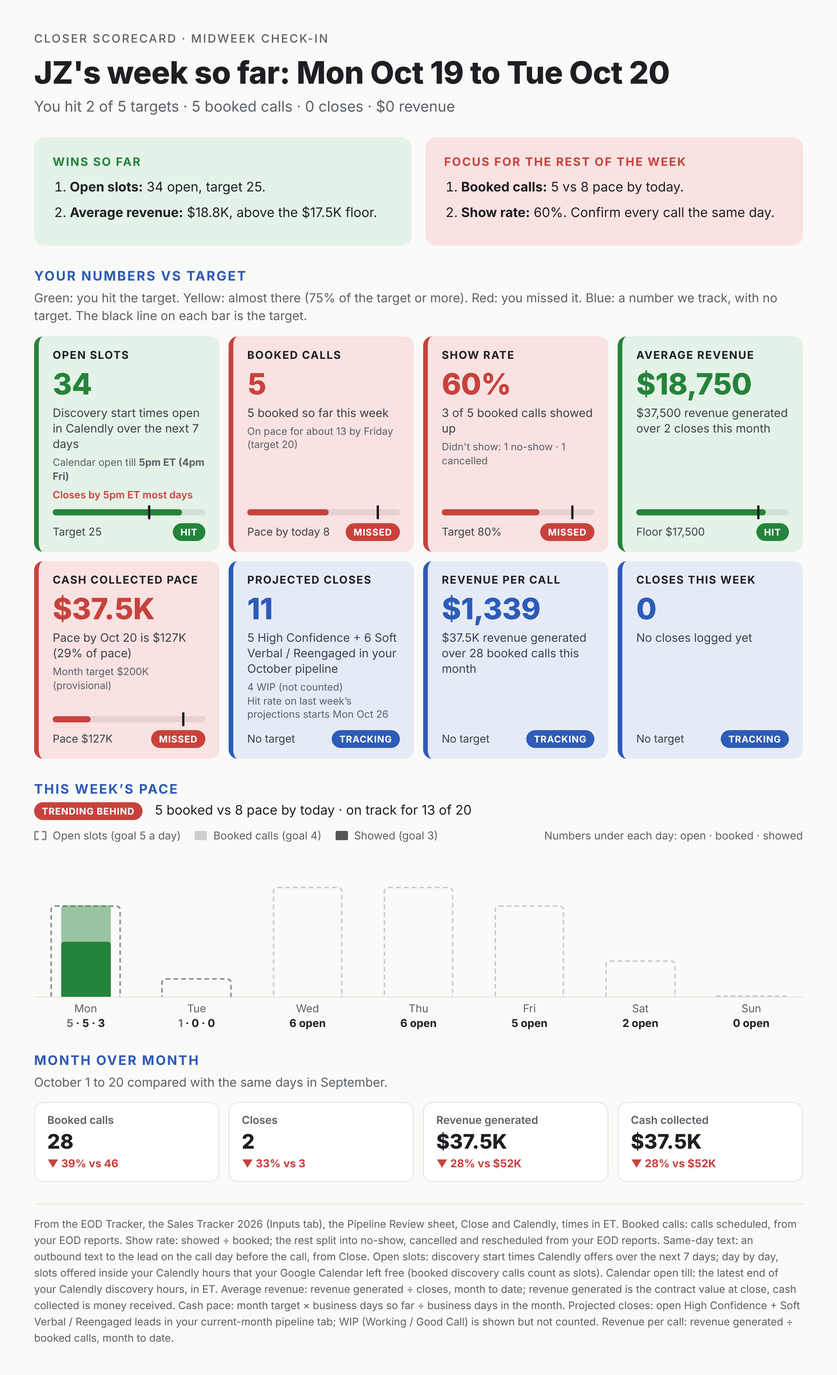
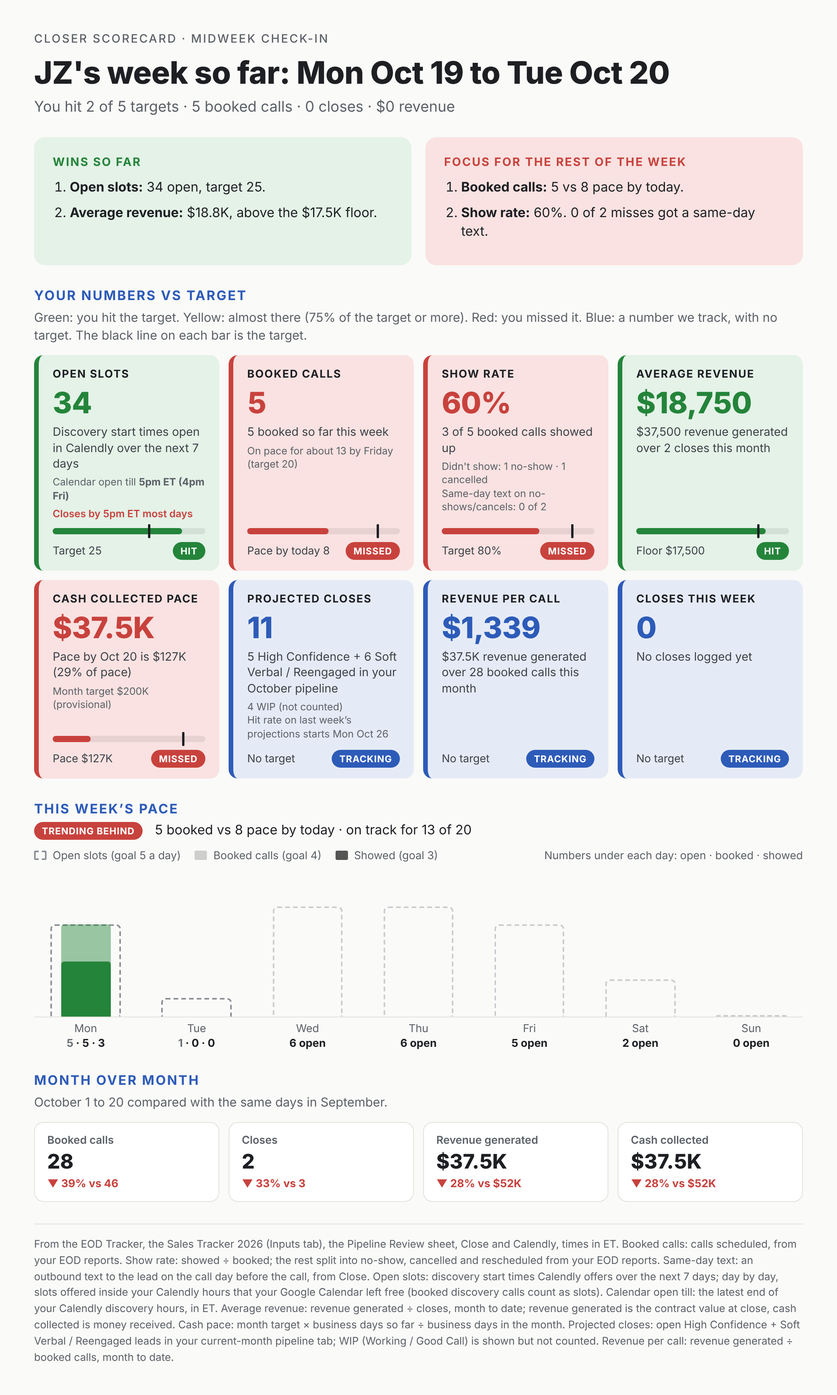
Scorecard: same-day confirmation texts on no-shows and cancels
Checks Close for an outbound text on the call day before the call for
every EOD no-show and cancel, split by who sent it (setter, closer,
other). Shown on the show-rate tile and the leadership table; the Focus
line states the count instead of telling the closer to confirm.

Claude-Session: https://claude.ai/code/session_011pbn4nCNJuuvTdiMbwfsux

diff --git a/out/monday-leadership.html b/out/monday-leadership.html
@@ -83,7 +83,7 @@ tr.total td{background:#f1efea;font-weight:800}
 <tbody><tr><td>Owen</td>
 <td class="hit">36<small>till 6pm ET</small></td>
 <td class="hit">23<small>of 20</small></td>
-<td class="almost">78%<small>18/23 · 3 NS · 1 C · 1 R</small></td>
+<td class="almost">78%<small>18/23 · 3 NS · 1 C · 1 R · texted 1/4</small></td>
 <td class="track">1<small>$20K</small></td>
 <td class="track">10<small>2 HC · 8 SV · 3 W</small></td>
 <td class="almost">$97K<small>89% of pace</small></td>
@@ -92,7 +92,7 @@ tr.total td{background:#f1efea;font-weight:800}
 <td class="track">▼ 53%<small>$97K vs $206K</small></td></tr><tr><td>Adam</td>
 <td class="hit">28<small>till 9pm ET</small></td>
 <td class="missed">6<small>of 20</small></td>
-<td class="almost">67%<small>4/6 · 2 NS · 0 C · 0 R</small></td>
+<td class="almost">67%<small>4/6 · 2 NS · 0 C · 0 R · texted 2/2</small></td>
 <td class="track">1<small>$18K</small></td>
 <td class="track">7<small>5 HC · 2 SV · 6 W</small></td>
 <td class="missed">$68K<small>62% of pace</small></td>
@@ -101,7 +101,7 @@ tr.total td{background:#f1efea;font-weight:800}
 <td class="track">▼ 55%<small>$68K vs $151K</small></td></tr><tr><td>JZ</td>
 <td class="hit">27<small>till 5pm ET</small></td>
 <td class="missed">5<small>of 20</small></td>
-<td class="missed">60%<small>3/5 · 1 NS · 1 C · 0 R</small></td>
+<td class="missed">60%<small>3/5 · 1 NS · 1 C · 0 R · texted 1/2</small></td>
 <td class="track">2<small>$37.5K</small></td>
 <td class="track">11<small>5 HC · 6 SV · 4 W</small></td>
 <td class="missed">$37.5K<small>34% of pace</small></td>
@@ -110,7 +110,7 @@ tr.total td{background:#f1efea;font-weight:800}
 <td class="track">▼ 28%<small>$37.5K vs $52K</small></td></tr><tr><td>VeJohn</td>
 <td class="missed">12<small>till 9pm ET</small></td>
 <td class="almost">17<small>of 20</small></td>
-<td class="almost">76%<small>13/17 · 2 NS · 2 C · 0 R</small></td>
+<td class="almost">76%<small>13/17 · 2 NS · 2 C · 0 R · texted 0/4</small></td>
 <td class="track">2<small>$35K</small></td>
 <td class="track">4<small>3 HC · 1 SV · 1 W</small></td>
 <td class="missed">$81K<small>74% of pace</small></td>
@@ -128,7 +128,7 @@ tr.total td{background:#f1efea;font-weight:800}
 <td class="track">▼ 17%<small>$15K vs $18K</small></td></tr><tr><td>Nick</td>
 <td class="missed">16<small>till 5pm ET</small></td>
 <td class="missed">13<small>of 20</small></td>
-<td class="missed">46%<small>6/13 · 7 NS · 0 C · 0 R</small></td>
+<td class="missed">46%<small>6/13 · 7 NS · 0 C · 0 R · texted 2/7</small></td>
 <td class="track">2<small>$34K</small></td>
 <td class="track">0<small>0 HC · 0 SV · 0 W · 32 untagged</small></td>
 <td class="missed">$69K<small>63% of pace</small></td>
@@ -137,7 +137,7 @@ tr.total td{background:#f1efea;font-weight:800}
 <td class="track">▼ 46%<small>$69K vs $129K</small></td></tr><tr><td>Omar</td>
 <td class="hit">27<small>till 4pm ET</small></td>
 <td class="hit">25<small>of 20</small></td>
-<td class="missed">56%<small>14/25 · 8 NS · 2 C · 1 R</small></td>
+<td class="missed">56%<small>14/25 · 8 NS · 2 C · 1 R · texted 1/10</small></td>
 <td class="track">0<small>$0</small></td>
 <td class="track">7<small>2 HC · 5 SV · 4 W</small></td>
 <td class="missed">$15K<small>14% of pace</small></td>
@@ -146,7 +146,7 @@ tr.total td{background:#f1efea;font-weight:800}
 <td class="track">▼ 86%<small>$15K vs $106K</small></td></tr><tr><td>Harry</td>
 <td class="hit">34<small>till 6pm ET</small></td>
 <td class="missed">14<small>of 20</small></td>
-<td class="almost">71%<small>10/14 · 2 NS · 2 C · 0 R</small></td>
+<td class="almost">71%<small>10/14 · 2 NS · 2 C · 0 R · texted 1/4</small></td>
 <td class="track">0<small>$0</small></td>
 <td class="track">6<small>5 HC · 1 SV · 10 W · 3 untagged</small></td>
 <td class="missed">$39K<small>36% of pace</small></td>
@@ -155,7 +155,7 @@ tr.total td{background:#f1efea;font-weight:800}
 <td class="track">▼ 45%<small>$39K vs $70.5K</small></td></tr><tr><td>Solomon</td>
 <td class="hit">35<small>till 10pm ET</small></td>
 <td class="missed">12<small>of 20</small></td>
-<td class="almost">67%<small>8/12 · 4 NS · 0 C · 0 R</small></td>
+<td class="almost">67%<small>8/12 · 4 NS · 0 C · 0 R · texted 2/4</small></td>
 <td class="track">3<small>$56K</small></td>
 <td class="track">0<small>0 HC · 0 SV · 0 W · 6 untagged</small></td>
 <td class="missed">$56K<small>51% of pace</small></td>
@@ -164,7 +164,7 @@ tr.total td{background:#f1efea;font-weight:800}
 <td class="track">▼ 37%<small>$56K vs $88.5K</small></td></tr><tr><td>Daniel</td>
 <td class="hit">37<small>till 6pm ET</small></td>
 <td class="missed">8<small>of 20</small></td>
-<td class="almost">63%<small>5/8 · 2 NS · 0 C · 1 R</small></td>
+<td class="almost">63%<small>5/8 · 2 NS · 0 C · 1 R · texted 0/2</small></td>
 <td class="track">0<small>$0</small></td>
 <td class="track">0<small>0 HC · 0 SV · 0 W · 11 untagged</small></td>
 <td class="missed">$0<small>0% of pace</small></td>
@@ -173,7 +173,7 @@ tr.total td{background:#f1efea;font-weight:800}
 <td class="track">▼ 100%<small>$0 vs $32.5K</small></td></tr><tr><td>Kevin</td>
 <td class="almost">21<small>till 8pm ET</small></td>
 <td class="almost">15<small>of 20</small></td>
-<td class="almost">67%<small>10/15 · 3 NS · 2 C · 0 R</small></td>
+<td class="almost">67%<small>10/15 · 3 NS · 2 C · 0 R · texted 2/5</small></td>
 <td class="track">2<small>$36K</small></td>
 <td class="track">0<small>0 HC · 0 SV · 0 W · 8 untagged</small></td>
 <td class="missed">$42K<small>39% of pace</small></td>

diff --git a/out/monday-Omar.html b/out/monday-Omar.html
@@ -80,7 +80,7 @@ tr.total td{background:#f1efea;font-weight:800}
 <div class="lede">You hit 2 of 5 targets · 25 booked calls · 0 closes · $0 revenue</div>
 <div class="wf">
   <div class="box wins"><h3>WINS LAST WEEK</h3><ol><li><b>Open slots:</b> 27 open, target 25.</li><li><b>Booked calls:</b> 25, target 20.</li></ol></div>
-  <div class="box fixes"><h3>FOCUS THIS WEEK</h3><ol><li><b>Show rate:</b> 56%. Confirm every call the same day.</li><li><b>Average revenue:</b> $15K, below the $17.5K floor.</li></ol></div>
+  <div class="box fixes"><h3>FOCUS THIS WEEK</h3><ol><li><b>Show rate:</b> 56%. 1 of 10 misses got a same-day text.</li><li><b>Average revenue:</b> $15K, below the $17.5K floor.</li></ol></div>
 </div>
 <div class="section"><h2>YOUR NUMBERS VS TARGET</h2>
 <p class="key">Green: you hit the target. Yellow: almost there (75% of the target or more). Red: you missed it. Blue: a number we track, with no target. The black line on each bar is the target.</p>
@@ -94,7 +94,7 @@ tr.total td{background:#f1efea;font-weight:800}
   <div class="foot"><div class="bar"><i style="width:85%"></i><b style="left:68%"></b></div><div class="row"><span>Target 20</span><span class="chip">HIT</span></div></div>
 </div><div class="tile missed">
   <div class="l">Show rate</div><div class="v">56%</div>
-  <div class="s">14 of 25 booked calls showed up</div><div class="small">Didn't show: 8 no-show · 2 cancelled · 1 rescheduled</div>
+  <div class="s">14 of 25 booked calls showed up</div><div class="small">Didn't show: 8 no-show · 2 cancelled · 1 rescheduled<br>Same-day text on no-shows/cancels: 1 of 10 (1 you)</div>
   <div class="foot"><div class="bar"><i style="width:59.5%"></i><b style="left:85%"></b></div><div class="row"><span>Target 80%</span><span class="chip">MISSED</span></div></div>
 </div><div class="tile missed">
   <div class="l">Average revenue</div><div class="v">$15,000</div>

diff --git a/out/wednesday-Owen.html b/out/wednesday-Owen.html
@@ -80,7 +80,7 @@ tr.total td{background:#f1efea;font-weight:800}
 <div class="lede">You hit 2 of 5 targets, 1 almost · 4 booked calls · 0 closes · $0 revenue</div>
 <div class="wf">
   <div class="box wins"><h3>WINS SO FAR</h3><ol><li><b>Open slots:</b> 32 open, target 25.</li><li><b>Average revenue:</b> $19.4K, above the $17.5K floor.</li></ol></div>
-  <div class="box fixes"><h3>FOCUS FOR THE REST OF THE WEEK</h3><ol><li><b>Booked calls:</b> 4 vs 8 pace by today.</li><li><b>Show rate:</b> 50%. Confirm every call the same day.</li></ol></div>
+  <div class="box fixes"><h3>FOCUS FOR THE REST OF THE WEEK</h3><ol><li><b>Booked calls:</b> 4 vs 8 pace by today.</li><li><b>Show rate:</b> 50%. 0 of 1 misses got a same-day text.</li></ol></div>
 </div>
 <div class="section"><h2>YOUR NUMBERS VS TARGET</h2>
 <p class="key">Green: you hit the target. Yellow: almost there (75% of the target or more). Red: you missed it. Blue: a number we track, with no target. The black line on each bar is the target.</p>
@@ -94,7 +94,7 @@ tr.total td{background:#f1efea;font-weight:800}
   <div class="foot"><div class="bar"><i style="width:42.5%"></i><b style="left:85%"></b></div><div class="row"><span>Pace by today 8</span><span class="chip">MISSED</span></div></div>
 </div><div class="tile missed">
   <div class="l">Show rate</div><div class="v">50%</div>
-  <div class="s">2 of 4 booked calls showed up</div><div class="small">Didn't show: 1 no-show · 1 rescheduled</div>
+  <div class="s">2 of 4 booked calls showed up</div><div class="small">Didn't show: 1 no-show · 1 rescheduled<br>Same-day text on no-shows/cancels: 0 of 1</div>
   <div class="foot"><div class="bar"><i style="width:53.125%"></i><b style="left:85%"></b></div><div class="row"><span>Target 80%</span><span class="chip">MISSED</span></div></div>
 </div><div class="tile hit">
   <div class="l">Average revenue</div><div class="v">$19,400</div>

diff --git a/out/wednesday-JZ.html b/out/wednesday-JZ.html
@@ -80,7 +80,7 @@ tr.total td{background:#f1efea;font-weight:800}
 <div class="lede">You hit 2 of 5 targets · 5 booked calls · 0 closes · $0 revenue</div>
 <div class="wf">
   <div class="box wins"><h3>WINS SO FAR</h3><ol><li><b>Open slots:</b> 34 open, target 25.</li><li><b>Average revenue:</b> $18.8K, above the $17.5K floor.</li></ol></div>
-  <div class="box fixes"><h3>FOCUS FOR THE REST OF THE WEEK</h3><ol><li><b>Booked calls:</b> 5 vs 8 pace by today.</li><li><b>Show rate:</b> 60%. Confirm every call the same day.</li></ol></div>
+  <div class="box fixes"><h3>FOCUS FOR THE REST OF THE WEEK</h3><ol><li><b>Booked calls:</b> 5 vs 8 pace by today.</li><li><b>Show rate:</b> 60%. 0 of 2 misses got a same-day text.</li></ol></div>
 </div>
 <div class="section"><h2>YOUR NUMBERS VS TARGET</h2>
 <p class="key">Green: you hit the target. Yellow: almost there (75% of the target or more). Red: you missed it. Blue: a number we track, with no target. The black line on each bar is the target.</p>
@@ -94,7 +94,7 @@ tr.total td{background:#f1efea;font-weight:800}
   <div class="foot"><div class="bar"><i style="width:53.125%"></i><b style="left:85%"></b></div><div class="row"><span>Pace by today 8</span><span class="chip">MISSED</span></div></div>
 </div><div class="tile missed">
   <div class="l">Show rate</div><div class="v">60%</div>
-  <div class="s">3 of 5 booked calls showed up</div><div class="small">Didn't show: 1 no-show · 1 cancelled</div>
+  <div class="s">3 of 5 booked calls showed up</div><div class="small">Didn't show: 1 no-show · 1 cancelled<br>Same-day text on no-shows/cancels: 0 of 2</div>
   <div class="foot"><div class="bar"><i style="width:63.74999999999999%"></i><b style="left:85%"></b></div><div class="row"><span>Target 80%</span><span class="chip">MISSED</span></div></div>
 </div><div class="tile hit">
   <div class="l">Average revenue</div><div class="v">$18,750</div>

diff --git a/out/monday-Owen.html b/out/monday-Owen.html
@@ -80,7 +80,7 @@ tr.total td{background:#f1efea;font-weight:800}
 <div class="lede">You hit 3 of 5 targets, 2 almost · 23 booked calls · 1 close · $20K revenue</div>
 <div class="wf">
   <div class="box wins"><h3>WINS LAST WEEK</h3><ol><li><b>Open slots:</b> 36 open, target 25.</li><li><b>Booked calls:</b> 23, target 20.</li></ol></div>
-  <div class="box fixes"><h3>FOCUS THIS WEEK</h3><ol><li><b>Show rate:</b> 78%. Confirm every call the same day.</li><li><b>Cash:</b> $97K vs $109K pace.</li></ol></div>
+  <div class="box fixes"><h3>FOCUS THIS WEEK</h3><ol><li><b>Show rate:</b> 78%. 1 of 4 misses got a same-day text.</li><li><b>Cash:</b> $97K vs $109K pace.</li></ol></div>
 </div>
 <div class="section"><h2>YOUR NUMBERS VS TARGET</h2>
 <p class="key">Green: you hit the target. Yellow: almost there (75% of the target or more). Red: you missed it. Blue: a number we track, with no target. The black line on each bar is the target.</p>
@@ -94,7 +94,7 @@ tr.total td{background:#f1efea;font-weight:800}
   <div class="foot"><div class="bar"><i style="width:85%"></i><b style="left:73.91304347826086%"></b></div><div class="row"><span>Target 20</span><span class="chip">HIT</span></div></div>
 </div><div class="tile almost">
   <div class="l">Show rate</div><div class="v">78%</div>
-  <div class="s">18 of 23 booked calls showed up</div><div class="small">Didn't show: 3 no-show · 1 cancelled · 1 rescheduled</div>
+  <div class="s">18 of 23 booked calls showed up</div><div class="small">Didn't show: 3 no-show · 1 cancelled · 1 rescheduled<br>Same-day text on no-shows/cancels: 1 of 4 (1 setter)</div>
   <div class="foot"><div class="bar"><i style="width:83.15217391304347%"></i><b style="left:85%"></b></div><div class="row"><span>Target 80%</span><span class="chip">ALMOST</span></div></div>
 </div><div class="tile hit">
   <div class="l">Average revenue</div><div class="v">$19,400</div>

diff --git a/out/wednesday-Solomon.html b/out/wednesday-Solomon.html
@@ -80,7 +80,7 @@ tr.total td{background:#f1efea;font-weight:800}
 <div class="lede">You hit 2 of 5 targets, 1 almost · 4 booked calls · 0 closes · $0 revenue</div>
 <div class="wf">
   <div class="box wins"><h3>WINS SO FAR</h3><ol><li><b>Open slots:</b> 34 open, target 25.</li><li><b>Average revenue:</b> $18.7K, above the $17.5K floor.</li></ol></div>
-  <div class="box fixes"><h3>FOCUS FOR THE REST OF THE WEEK</h3><ol><li><b>Booked calls:</b> 4 vs 8 pace by today.</li><li><b>Show rate:</b> 75%. Confirm every call the same day.</li></ol></div>
+  <div class="box fixes"><h3>FOCUS FOR THE REST OF THE WEEK</h3><ol><li><b>Booked calls:</b> 4 vs 8 pace by today.</li><li><b>Show rate:</b> 75%. 1 of 1 misses got a same-day text.</li></ol></div>
 </div>
 <div class="section"><h2>YOUR NUMBERS VS TARGET</h2>
 <p class="key">Green: you hit the target. Yellow: almost there (75% of the target or more). Red: you missed it. Blue: a number we track, with no target. The black line on each bar is the target.</p>
@@ -94,7 +94,7 @@ tr.total td{background:#f1efea;font-weight:800}
   <div class="foot"><div class="bar"><i style="width:42.5%"></i><b style="left:85%"></b></div><div class="row"><span>Pace by today 8</span><span class="chip">MISSED</span></div></div>
 </div><div class="tile almost">
   <div class="l">Show rate</div><div class="v">75%</div>
-  <div class="s">3 of 4 booked calls showed up</div><div class="small">Didn't show: 1 no-show</div>
+  <div class="s">3 of 4 booked calls showed up</div><div class="small">Didn't show: 1 no-show<br>Same-day text on no-shows/cancels: 1 of 1 (1 you)</div>
   <div class="foot"><div class="bar"><i style="width:79.68749999999999%"></i><b style="left:85%"></b></div><div class="row"><span>Target 80%</span><span class="chip">ALMOST</span></div></div>
 </div><div class="tile hit">
   <div class="l">Average revenue</div><div class="v">$18,667</div>

diff --git a/out/wednesday-Kevin.html b/out/wednesday-Kevin.html
@@ -80,7 +80,7 @@ tr.total td{background:#f1efea;font-weight:800}
 <div class="lede">You hit 2 of 5 targets · 5 booked calls · 0 closes · $0 revenue</div>
 <div class="wf">
   <div class="box wins"><h3>WINS SO FAR</h3><ol><li><b>Open slots:</b> 31 open, target 25.</li><li><b>Average revenue:</b> $18K, above the $17.5K floor.</li></ol></div>
-  <div class="box fixes"><h3>FOCUS FOR THE REST OF THE WEEK</h3><ol><li><b>Booked calls:</b> 5 vs 8 pace by today.</li><li><b>Show rate:</b> 40%. Confirm every call the same day.</li></ol></div>
+  <div class="box fixes"><h3>FOCUS FOR THE REST OF THE WEEK</h3><ol><li><b>Booked calls:</b> 5 vs 8 pace by today.</li><li><b>Show rate:</b> 40%. 0 of 3 misses got a same-day text.</li></ol></div>
 </div>
 <div class="section"><h2>YOUR NUMBERS VS TARGET</h2>
 <p class="key">Green: you hit the target. Yellow: almost there (75% of the target or more). Red: you missed it. Blue: a number we track, with no target. The black line on each bar is the target.</p>
@@ -94,7 +94,7 @@ tr.total td{background:#f1efea;font-weight:800}
   <div class="foot"><div class="bar"><i style="width:53.125%"></i><b style="left:85%"></b></div><div class="row"><span>Pace by today 8</span><span class="chip">MISSED</span></div></div>
 </div><div class="tile missed">
   <div class="l">Show rate</div><div class="v">40%</div>
-  <div class="s">2 of 5 booked calls showed up</div><div class="small">Didn't show: 2 no-show · 1 cancelled</div>
+  <div class="s">2 of 5 booked calls showed up</div><div class="small">Didn't show: 2 no-show · 1 cancelled<br>Same-day text on no-shows/cancels: 0 of 3</div>
   <div class="foot"><div class="bar"><i style="width:42.5%"></i><b style="left:85%"></b></div><div class="row"><span>Target 80%</span><span class="chip">MISSED</span></div></div>
 </div><div class="tile hit">
   <div class="l">Average revenue</div><div class="v">$18,000</div>

diff --git a/out/monday-Harry.html b/out/monday-Harry.html
@@ -80,7 +80,7 @@ tr.total td{background:#f1efea;font-weight:800}
 <div class="lede">You hit 2 of 5 targets, 1 almost · 14 booked calls · 0 closes · $0 revenue</div>
 <div class="wf">
   <div class="box wins"><h3>WINS LAST WEEK</h3><ol><li><b>Open slots:</b> 34 open, target 25.</li><li><b>Average revenue:</b> $19.5K, above the $17.5K floor.</li></ol></div>
-  <div class="box fixes"><h3>FOCUS THIS WEEK</h3><ol><li><b>Booked calls:</b> 14 of 20.</li><li><b>Show rate:</b> 71%. Confirm every call the same day.</li></ol></div>
+  <div class="box fixes"><h3>FOCUS THIS WEEK</h3><ol><li><b>Booked calls:</b> 14 of 20.</li><li><b>Show rate:</b> 71%. 1 of 4 misses got a same-day text.</li></ol></div>
 </div>
 <div class="section"><h2>YOUR NUMBERS VS TARGET</h2>
 <p class="key">Green: you hit the target. Yellow: almost there (75% of the target or more). Red: you missed it. Blue: a number we track, with no target. The black line on each bar is the target.</p>
@@ -94,7 +94,7 @@ tr.total td{background:#f1efea;font-weight:800}
   <div class="foot"><div class="bar"><i style="width:59.5%"></i><b style="left:85%"></b></div><div class="row"><span>Target 20</span><span class="chip">MISSED</span></div></div>
 </div><div class="tile almost">
   <div class="l">Show rate</div><div class="v">71%</div>
-  <div class="s">10 of 14 booked calls showed up</div><div class="small">Didn't show: 2 no-show · 2 cancelled</div>
+  <div class="s">10 of 14 booked calls showed up</div><div class="small">Didn't show: 2 no-show · 2 cancelled<br>Same-day text on no-shows/cancels: 1 of 4 (1 other)</div>
   <div class="foot"><div class="bar"><i style="width:75.89285714285714%"></i><b style="left:85%"></b></div><div class="row"><span>Target 80%</span><span class="chip">ALMOST</span></div></div>
 </div><div class="tile hit">
   <div class="l">Average revenue</div><div class="v">$19,500</div>

diff --git a/out/wednesday-Harry.html b/out/wednesday-Harry.html
@@ -80,7 +80,7 @@ tr.total td{background:#f1efea;font-weight:800}
 <div class="lede">You hit 2 of 5 targets · 4 booked calls · 0 closes · $0 revenue</div>
 <div class="wf">
   <div class="box wins"><h3>WINS SO FAR</h3><ol><li><b>Open slots:</b> 36 open, target 25.</li><li><b>Average revenue:</b> $19.5K, above the $17.5K floor.</li></ol></div>
-  <div class="box fixes"><h3>FOCUS FOR THE REST OF THE WEEK</h3><ol><li><b>Booked calls:</b> 4 vs 8 pace by today.</li><li><b>Show rate:</b> 50%. Confirm every call the same day.</li></ol></div>
+  <div class="box fixes"><h3>FOCUS FOR THE REST OF THE WEEK</h3><ol><li><b>Booked calls:</b> 4 vs 8 pace by today.</li><li><b>Show rate:</b> 50%. 1 of 2 misses got a same-day text.</li></ol></div>
 </div>
 <div class="section"><h2>YOUR NUMBERS VS TARGET</h2>
 <p class="key">Green: you hit the target. Yellow: almost there (75% of the target or more). Red: you missed it. Blue: a number we track, with no target. The black line on each bar is the target.</p>
@@ -94,7 +94,7 @@ tr.total td{background:#f1efea;font-weight:800}
   <div class="foot"><div class="bar"><i style="width:42.5%"></i><b style="left:85%"></b></div><div class="row"><span>Pace by today 8</span><span class="chip">MISSED</span></div></div>
 </div><div class="tile missed">
   <div class="l">Show rate</div><div class="v">50%</div>
-  <div class="s">2 of 4 booked calls showed up</div><div class="small">Didn't show: 2 no-show</div>
+  <div class="s">2 of 4 booked calls showed up</div><div class="small">Didn't show: 2 no-show<br>Same-day text on no-shows/cancels: 1 of 2 (1 you)</div>
   <div class="foot"><div class="bar"><i style="width:53.125%"></i><b style="left:85%"></b></div><div class="row"><span>Target 80%</span><span class="chip">MISSED</span></div></div>
 </div><div class="tile hit">
   <div class="l">Average revenue</div><div class="v">$19,500</div>

diff --git a/out/monday-JZ.html b/out/monday-JZ.html
@@ -80,7 +80,7 @@ tr.total td{background:#f1efea;font-weight:800}
 <div class="lede">You hit 2 of 5 targets · 5 booked calls · 2 closes · $37.5K revenue</div>
 <div class="wf">
   <div class="box wins"><h3>WINS LAST WEEK</h3><ol><li><b>Open slots:</b> 27 open, target 25.</li><li><b>Average revenue:</b> $18.8K, above the $17.5K floor.</li></ol></div>
-  <div class="box fixes"><h3>FOCUS THIS WEEK</h3><ol><li><b>Booked calls:</b> 5 of 20.</li><li><b>Show rate:</b> 60%. Confirm every call the same day.</li></ol></div>
+  <div class="box fixes"><h3>FOCUS THIS WEEK</h3><ol><li><b>Booked calls:</b> 5 of 20.</li><li><b>Show rate:</b> 60%. 1 of 2 misses got a same-day text.</li></ol></div>
 </div>
 <div class="section"><h2>YOUR NUMBERS VS TARGET</h2>
 <p class="key">Green: you hit the target. Yellow: almost there (75% of the target or more). Red: you missed it. Blue: a number we track, with no target. The black line on each bar is the target.</p>
@@ -94,7 +94,7 @@ tr.total td{background:#f1efea;font-weight:800}
   <div class="foot"><div class="bar"><i style="width:21.25%"></i><b style="left:85%"></b></div><div class="row"><span>Target 20</span><span class="chip">MISSED</span></div></div>
 </div><div class="tile missed">
   <div class="l">Show rate</div><div class="v">60%</div>
-  <div class="s">3 of 5 booked calls showed up</div><div class="small">Didn't show: 1 no-show · 1 cancelled</div>
+  <div class="s">3 of 5 booked calls showed up</div><div class="small">Didn't show: 1 no-show · 1 cancelled<br>Same-day text on no-shows/cancels: 1 of 2 (1 you)</div>
   <div class="foot"><div class="bar"><i style="width:63.74999999999999%"></i><b style="left:85%"></b></div><div class="row"><span>Target 80%</span><span class="chip">MISSED</span></div></div>
 </div><div class="tile hit">
   <div class="l">Average revenue</div><div class="v">$18,750</div>

diff --git a/out/monday-Solomon.html b/out/monday-Solomon.html
@@ -80,7 +80,7 @@ tr.total td{background:#f1efea;font-weight:800}
 <div class="lede">You hit 2 of 5 targets, 1 almost · 12 booked calls · 3 closes · $56K revenue</div>
 <div class="wf">
   <div class="box wins"><h3>WINS LAST WEEK</h3><ol><li><b>Open slots:</b> 35 open, target 25.</li><li><b>Average revenue:</b> $18.7K, above the $17.5K floor.</li></ol></div>
-  <div class="box fixes"><h3>FOCUS THIS WEEK</h3><ol><li><b>Booked calls:</b> 12 of 20.</li><li><b>Show rate:</b> 67%. Confirm every call the same day.</li></ol></div>
+  <div class="box fixes"><h3>FOCUS THIS WEEK</h3><ol><li><b>Booked calls:</b> 12 of 20.</li><li><b>Show rate:</b> 67%. 2 of 4 misses got a same-day text.</li></ol></div>
 </div>
 <div class="section"><h2>YOUR NUMBERS VS TARGET</h2>
 <p class="key">Green: you hit the target. Yellow: almost there (75% of the target or more). Red: you missed it. Blue: a number we track, with no target. The black line on each bar is the target.</p>
@@ -94,7 +94,7 @@ tr.total td{background:#f1efea;font-weight:800}
   <div class="foot"><div class="bar"><i style="width:51%"></i><b style="left:85%"></b></div><div class="row"><span>Target 20</span><span class="chip">MISSED</span></div></div>
 </div><div class="tile almost">
   <div class="l">Show rate</div><div class="v">67%</div>
-  <div class="s">8 of 12 booked calls showed up</div><div class="small">Didn't show: 4 no-show</div>
+  <div class="s">8 of 12 booked calls showed up</div><div class="small">Didn't show: 4 no-show<br>Same-day text on no-shows/cancels: 2 of 4 (2 you)</div>
   <div class="foot"><div class="bar"><i style="width:70.83333333333333%"></i><b style="left:85%"></b></div><div class="row"><span>Target 80%</span><span class="chip">ALMOST</span></div></div>
 </div><div class="tile hit">
   <div class="l">Average revenue</div><div class="v">$18,667</div>

diff --git a/out/wednesday-Nick.html b/out/wednesday-Nick.html
@@ -80,7 +80,7 @@ tr.total td{background:#f1efea;font-weight:800}
 <div class="lede">You hit 1 of 5 targets · 4 booked calls · 0 closes · $0 revenue</div>
 <div class="wf">
   <div class="box wins"><h3>WINS SO FAR</h3><ol><li><b>Open slots:</b> 25 open, target 25.</li></ol></div>
-  <div class="box fixes"><h3>FOCUS FOR THE REST OF THE WEEK</h3><ol><li><b>Booked calls:</b> 4 vs 8 pace by today.</li><li><b>Show rate:</b> 50%. Confirm every call the same day.</li></ol></div>
+  <div class="box fixes"><h3>FOCUS FOR THE REST OF THE WEEK</h3><ol><li><b>Booked calls:</b> 4 vs 8 pace by today.</li><li><b>Show rate:</b> 50%. 0 of 2 misses got a same-day text.</li></ol></div>
 </div>
 <div class="section"><h2>YOUR NUMBERS VS TARGET</h2>
 <p class="key">Green: you hit the target. Yellow: almost there (75% of the target or more). Red: you missed it. Blue: a number we track, with no target. The black line on each bar is the target.</p>
@@ -94,7 +94,7 @@ tr.total td{background:#f1efea;font-weight:800}
   <div class="foot"><div class="bar"><i style="width:42.5%"></i><b style="left:85%"></b></div><div class="row"><span>Pace by today 8</span><span class="chip">MISSED</span></div></div>
 </div><div class="tile missed">
   <div class="l">Show rate</div><div class="v">50%</div>
-  <div class="s">2 of 4 booked calls showed up</div><div class="small">Didn't show: 1 no-show · 1 cancelled</div>
+  <div class="s">2 of 4 booked calls showed up</div><div class="small">Didn't show: 1 no-show · 1 cancelled<br>Same-day text on no-shows/cancels: 0 of 2</div>
   <div class="foot"><div class="bar"><i style="width:53.125%"></i><b style="left:85%"></b></div><div class="row"><span>Target 80%</span><span class="chip">MISSED</span></div></div>
 </div><div class="tile missed">
   <div class="l">Average revenue</div><div class="v">$17,250</div>
